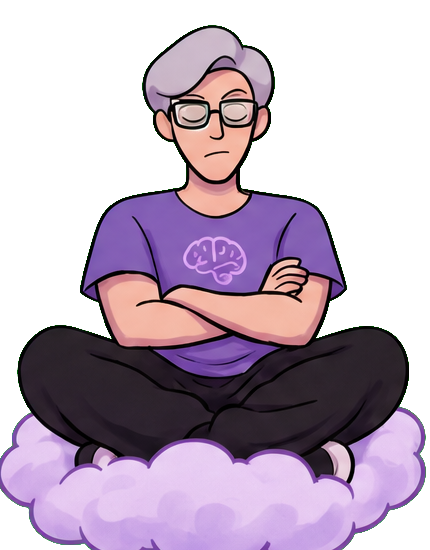
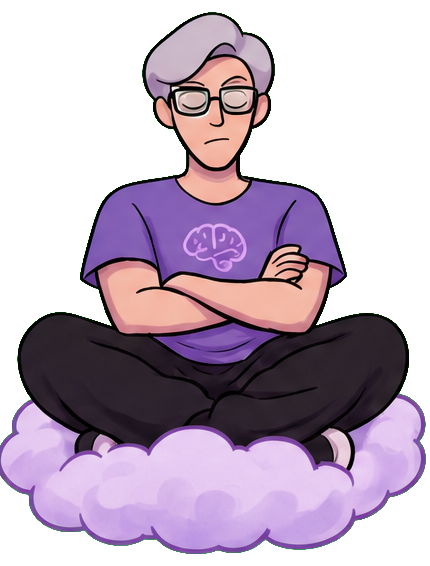
fix: preserve full juror cloud silhouettes

diff --git a/scripts/extract_jurors.py b/scripts/extract_jurors.py
@@ -14,14 +14,14 @@ from rembg import new_session, remove
 
 
 SPRITES = {
-    "ember-listening": (45, 100, 520, 650),
-    "tide-listening": (570, 100, 990, 650),
-    "gale-listening": (1070, 100, 1500, 650),
-    "volt-listening": (1550, 110, 2000, 650),
-    "ember-speaking": (45, 665, 530, 1180),
-    "tide-speaking": (560, 665, 1020, 1180),
-    "gale-speaking": (1050, 665, 1530, 1180),
-    "volt-speaking": (1530, 665, 2010, 1180),
+    "ember-listening": (45, 100, 520, 690),
+    "tide-listening": (570, 100, 990, 690),
+    "gale-listening": (1070, 100, 1500, 690),
+    "volt-listening": (1550, 110, 2000, 690),
+    "ember-speaking": (45, 665, 530, 1270),
+    "tide-speaking": (560, 665, 1020, 1270),
+    "gale-speaking": (1050, 665, 1530, 1270),
+    "volt-speaking": (1530, 665, 2010, 1270),
 }
 
 
@@ -48,7 +48,7 @@ def remove_chroma_green(source: Image.Image) -> Image.Image:
     return rgba
 
 
-def remove_isolated_specks(source: Image.Image, minimum_pixels: int = 12) -> Image.Image:
+def remove_isolated_specks(source: Image.Image, minimum_pixels: int = 100) -> Image.Image:
     """Discard tiny disconnected generator artifacts while retaining real cues."""
     rgba = source.convert("RGBA")
     alpha = rgba.getchannel("A")
@@ -85,6 +85,20 @@ def remove_isolated_specks(source: Image.Image, minimum_pixels: int = 12) -> Ima
     return rgba
 
 
+def trim_transparent_padding(source: Image.Image, padding: int = 12) -> Image.Image:
+    """Keep a small breathing room while removing unused keyed background."""
+    bounds = source.getchannel("A").getbbox()
+    if bounds is None:
+        return source
+    left, top, right, bottom = bounds
+    return source.crop((
+        max(0, left - padding),
+        max(0, top - padding),
+        min(source.width, right + padding),
+        min(source.height, bottom + padding),
+    ))
+
+
 def main() -> None:
     if len(sys.argv) != 3:
         raise SystemExit("usage: python scripts/extract_jurors.py <sprite-sheet> <output-dir>")
@@ -100,7 +114,7 @@ def main() -> None:
             if use_chroma_key
             else remove(sprite, session=session, alpha_matting=True, alpha_matting_foreground_threshold=240, alpha_matting_background_threshold=10, alpha_matting_erode_size=5)
         )
-        transparent.save(output_dir / f"{name}.png", optimize=True)
+        trim_transparent_padding(transparent).save(output_dir / f"{name}.png", optimize=True)
 
 
 if __name__ == "__main__":
